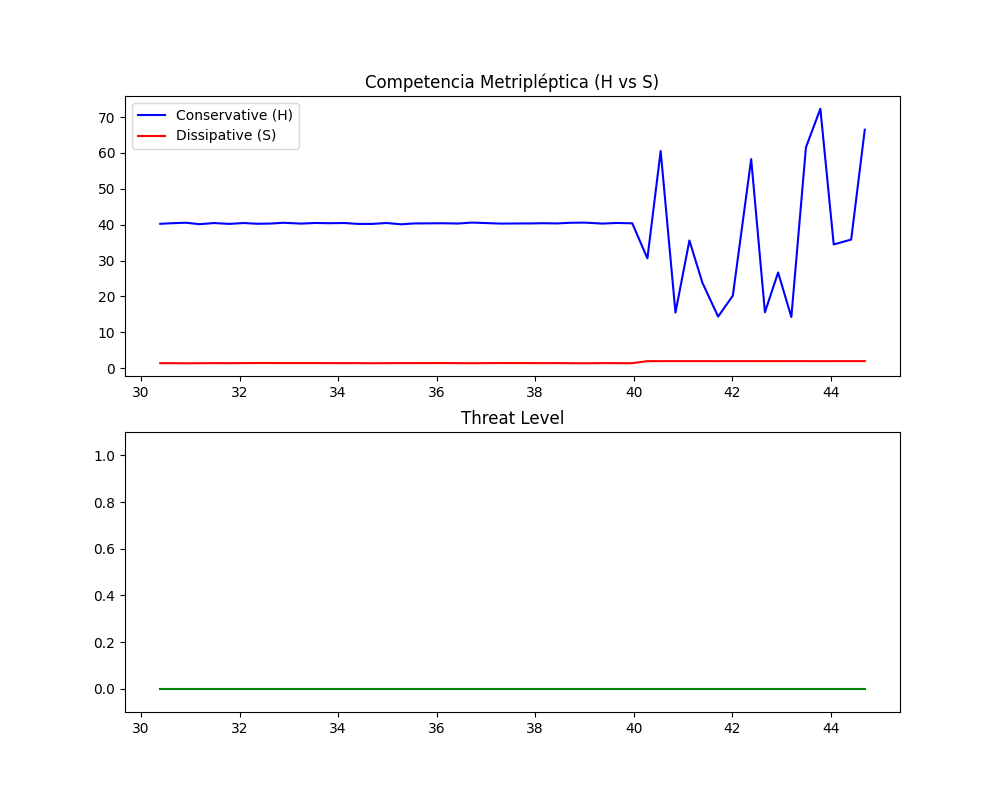
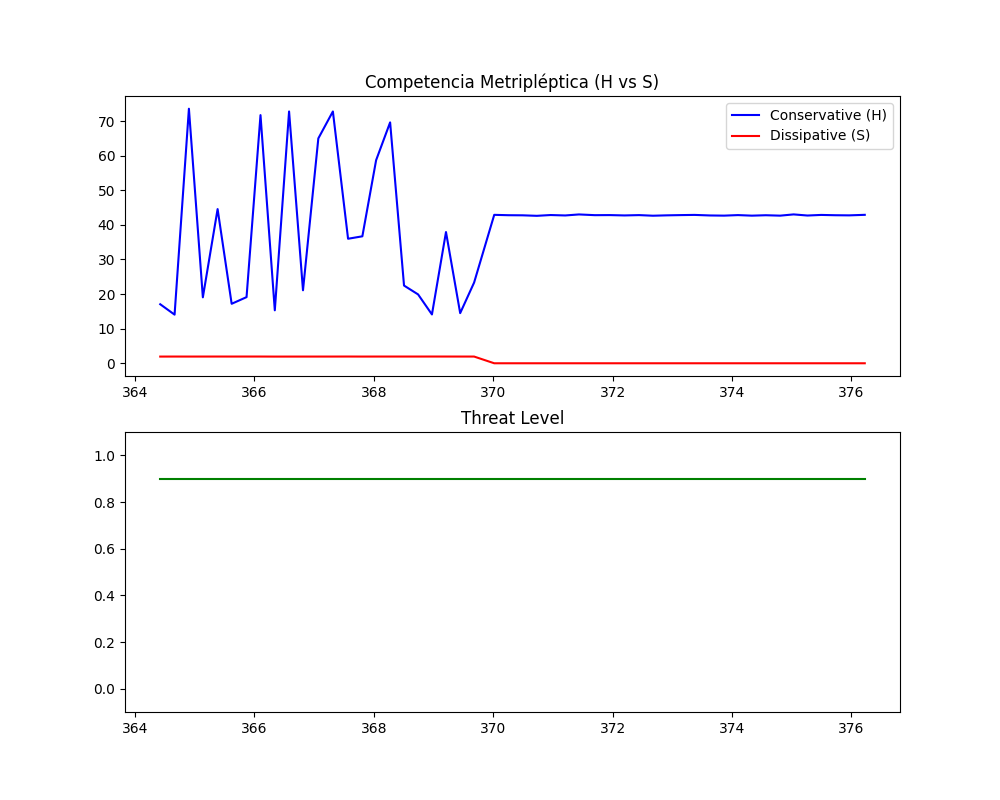
feat: introduce quantum system with explicit Lagrangian, dedicated tests, and real-time visualization of conservative and dissipative dynamics.

diff --git a/iron_dome/main.py b/iron_dome/main.py
@@ -1,6 +1,6 @@
 # -*- coding: utf-8 -*-
 """
-Iron Dome: Main System Loop
+Iron Dome: Main System Loop with TUI Dashboard
 """
 
 import numpy as np
@@ -15,11 +15,10 @@ from iron_dome.sensors.vision_processor import VisionProcessor
 from iron_dome.core.decision_engine import DecisionEngine
 from iron_dome.core.calibration import CalibrationManager
 from iron_dome.core.stat_tracker import StatTracker
+from iron_dome.core.monitor import IronDomeMonitor
 from iron_dome.config import PHI, MetriplecticConfig
 
 def run_iron_dome():
-    print("🛡  Iniciando Domo de Hierro Metripléptico...")
-    
     # Initialize components
     engine = MetriplecticSystem(dim=4) 
     acoustic = AcousticProcessor(system_type="H2")
@@ -27,138 +26,127 @@ def run_iron_dome():
     vision = VisionProcessor()
     decision = DecisionEngine()
     stats = StatTracker()
+    monitor = IronDomeMonitor()
     
-    # Visualization setup
-    plt.ion()
-    fig, (ax1, ax2) = plt.subplots(2, 1, figsize=(10, 8))
-    
+    # Background Visualization lists
     symp_vals = []
     metr_vals = []
-    times = []
+    threat_vals = []
+    time_vals = []
     
-    # Calibration Phase
+    # 1. Calibration Phase (Minimal console output before TUI)
+    print("🛡  Iniciando Domo de Hierro Metripléptico...")
     print("📡 Fase de Calibración: Registrando Ruido Blanco (5s)...")
     calibration = CalibrationManager(calibration_duration=5.0)
     cal_start = time.time()
     
     while not calibration.is_calibrated(time.time(), cal_start):
-        audio_data = np.random.randn(1024) * 0.1 # Real ambient noise simulation
+        audio_data = np.random.randn(1024) * 0.1
         features = acoustic.analyze_audio_chunk(audio_data)
         calibration.add_sample(features)
         time.sleep(0.1)
         
     baseline = calibration.finalize()
     decision.set_baseline(baseline)
-    print(f"✅ Calibración Completada. Baseline RMS: {baseline['rms_baseline']:.4f}")
-    
-    # Main loop setup
+    print(f"✅ Calibración Completada. Entrando en modo Monitor...")
+    time.sleep(1)
+
+    # 2. Main Monitoring Loop with TUI
     start_time = time.time()
     n = 0
     
-    try:
-        while True:
-            # 1. Simulate audio data (In real IoT, this is mic input)
-            elapsed = time.time() - start_time
-            
-            # Simulate different scenarios based on time
-            scenario = int(elapsed) % 40
-            
-            if scenario < 10:
-                # Baseline
-                audio_data = np.random.randn(1024) * 0.1
-                mode_str = "Fondo (Calm)"
-            elif scenario < 20:
-                # Drone (Harmonic 1kHz - 4kHz)
-                t_arr = np.linspace(0, 1024/44100, 1024)
-                audio_data = 0.6 * np.sin(2 * np.pi * 2500 * t_arr) + np.random.randn(1024) * 0.05
-                mode_str = "Intrusión: Drone"
-            elif scenario < 30:
-                # Bird (High freq, high bandwidth)
-                t_arr = np.linspace(0, 1024/44100, 1024)
-                audio_data = 0.4 * np.sin(2 * np.pi * 5000 * t_arr * (1 + 0.5 * np.sin(100 * t_arr)))
-                mode_str = "Ambiente: Ave"
-            else:
-                # Cat (Low freq steps)
-                t_arr = np.linspace(0, 1024/44100, 1024)
-                audio_data = 0.3 * np.sin(2 * np.pi * 150 * t_arr) + np.random.randn(1024) * 0.1
-                mode_str = "Movimiento: Gato"
+    with monitor.start_live() as live:
+        try:
+            while True:
+                elapsed = time.time() - start_time
                 
-            # 2. Process acoustics to Hamiltonian
-            features = acoustic.analyze_audio_chunk(audio_data)
-            features.timestamp = elapsed
-            H = acoustic.get_hamiltonian(features)
-            
-            # 3. Define Entropy Potential S (related to stability)
-            # S is high if the signal is non-harmonic (Rule 1.2)
-            S = np.eye(H.shape[0]) * (1.0 - features.harmonicity)
-            
-            # 4. Engine step
-            engine.step(H, S, dt=0.05, n=n)
-            diagnostics = engine.get_diagnostics()
-            
-            # 5. Multi-Layer Evaluation
-            eval_result = decision.evaluate(diagnostics, features)
-            
-            # 6. Sensor Confirmation Handoff
-            if eval_result['state'] == "Acoustic Detection":
-                # Trigger Layer 2: Motion
-                confirmed, coords = motion.confirm_movement(features)
-                if confirmed:
-                    # Simulation update of state (normally set by DecisionEngine but here we handle the handoff)
-                    eval_result['state'] = "Motion Confirmation"
-                    # Trigger Layer 3: Vision (only for significant threats or persistent cats/birds)
-                    vision_log = vision.start_tracking(eval_result['target_type'], coords)
-                    eval_result['state'] = "Vision Tracking"
-                    eval_result['vision_log'] = vision_log
-            
-            # Log results in StatTracker
-            stats.log_event(eval_result['target_type'], eval_result)
-            
-            # 7. Logging and Output
-            print(f"[{elapsed:.1f}s] {mode_str} | {eval_result['target_type']} | State: {eval_result['state']} | Re_psi: {eval_result['re_psi']:.2f}")
-            if eval_result['alert']:
-                print(f"🚨 ALERT: {eval_result['reason']}")
-            elif "Animal" in eval_result['target_type'] or "Bird" in eval_result['target_type']:
-                print(f"ℹ  Info: {eval_result['reason']}")
+                # Simulate Scenarios (Cycle every 40s)
+                scenario_cycle = int(elapsed) % 40
+                if scenario_cycle < 10:
+                    # Calm
+                    t_arr = np.linspace(0, 1024/44100, 1024)
+                    audio_data = np.random.randn(1024) * 0.05
+                    target_label = "Fondo (Calm)"
+                elif scenario_cycle < 20:
+                    # Drone
+                    t_arr = np.linspace(0, 1024/44100, 1024)
+                    audio_data = 0.7 * np.sin(2 * np.pi * 3000 * t_arr) + np.random.randn(1024) * 0.1
+                    target_label = "Intrusión: Drone"
+                elif scenario_cycle < 30:
+                    # Bird
+                    t_arr = np.linspace(0, 1024/44100, 1024)
+                    audio_data = 0.5 * np.sin(2 * np.pi * 5000 * t_arr) + np.random.randn(1024) * 0.2
+                    target_label = "Ambiente: Ave"
+                else:
+                    # Cat
+                    t_arr = np.linspace(0, 1024/44100, 1024)
+                    audio_data = 0.4 * np.sin(2 * np.pi * 180 * t_arr) + np.random.randn(1024) * 0.1
+                    target_label = "Movimiento: Gato"
 
-            # Summary stats every 40s
-            if int(elapsed) > 0 and int(elapsed) % 40 == 39:
-                print("\n📊 --- RESUMEN DE SEGURIDAD (Layer Statistics) ---")
-                summary = stats.get_summary()
-                print(f"Accuracy: {summary['Accuracy']} | TP: {summary['Stats']['TP']} | FP: {summary['Stats']['FP']} | TN: {summary['Stats']['TN']}")
-                print("--------------------------------------------------\n")
-            
-            # 7. Visualization Update
-            symp_vals.append(diagnostics['symp_mag'])
-            metr_vals.append(diagnostics['metr_mag'])
-            times.append(elapsed)
-            
-            if len(times) > 50:
-                times = times[-50:]
-                symp_vals = symp_vals[-50:]
-                metr_vals = metr_vals[-50:]
+                # Process Layer 1: Acoustic
+                features = acoustic.analyze_audio_chunk(audio_data)
+                features.timestamp = elapsed
                 
-            ax1.clear()
-            ax1.plot(times, symp_vals, 'b-', label='Conservative (H)')
-            ax1.plot(times, metr_vals, 'r-', label='Dissipative (S)')
+                # Update Metriplectic Dynamics
+                H = acoustic.get_hamiltonian(features)
+                S = np.eye(H.shape[0]) * (1.0 - features.harmonicity)
+                
+                engine.step(H, S, dt=0.05, n=n)
+                diagnostics = engine.get_diagnostics()
+                
+                # Evaluate Decision engine
+                eval_result = decision.evaluate(diagnostics, features)
+                
+                # Layer 2 & 3: Motion & Vision Handoff
+                if eval_result['state'] == "Acoustic Detection":
+                    confirmed, coords = motion.confirm_movement(features)
+                    if confirmed:
+                        eval_result['state'] = "Motion Confirmation"
+                        vision_log = vision.start_tracking(eval_result['target_type'], coords)
+                        eval_result['state'] = "Vision Tracking"
+                
+                # Track statistics
+                stats.log_event(eval_result['target_type'], eval_result)
+                
+                # Update TUI
+                log_msg = eval_result['reason'] if eval_result['alert'] else f"Monitoring {target_label}"
+                monitor.add_event(eval_result['target_type'], eval_result['state'], log_msg)
+                
+                stats_summary = stats.get_summary()
+                monitor.update_view(diagnostics, stats_summary, eval_result.get('threat_level', 0))
+                
+                # Background plot update
+                symp_vals.append(diagnostics['symp_mag'])
+                metr_vals.append(diagnostics['metr_mag'])
+                threat_vals.append(eval_result.get('threat_level', 0))
+                time_vals.append(elapsed)
+                
+                if len(time_vals) > 50:
+                    symp_vals.pop(0)
+                    metr_vals.pop(0)
+                    threat_vals.pop(0)
+                    time_vals.pop(0)
+                
+                n += 1
+                time.sleep(0.1)
+
+        except KeyboardInterrupt:
+            pass
+        finally:
+            # Save final background plot
+            plt.clf()
+            fig, (ax1, ax2) = plt.subplots(2, 1, figsize=(10, 8))
+            ax1.plot(time_vals, symp_vals, 'b-', label='Conservative (H)')
+            ax1.plot(time_vals, metr_vals, 'r-', label='Dissipative (S)')
             ax1.set_title("Competencia Metripléptica (H vs S)")
             ax1.legend()
             
-            ax2.clear()
-            ax2.plot(times, [eval_result['threat_level'] for _ in range(len(times))], 'g-')
+            ax2.plot(time_vals, threat_vals, 'g-')
             ax2.set_ylim(-0.1, 1.1)
-            ax2.set_title("Threat Level")
+            ax2.set_title("Threat Level Historical")
             
-            plt.pause(0.1)
-            n += 0.1
-            
-    except KeyboardInterrupt:
-        print("\n🛑 Sistema detenido por el usuario.")
-    finally:
-        plt.ioff()
-        output_path = "/home/jako/smopsys/Smopsys/iron_dome/diagnostics.png"
-        plt.savefig(output_path)
-        print(f"📊 Gráfica diagnóstica guardada en: {output_path}")
+            output_path = "/home/jako/smopsys/Smopsys/iron_dome/diagnostics.png"
+            plt.savefig(output_path)
 
 if __name__ == "__main__":
     run_iron_dome()

diff --git a/iron_dome/core/monitor.py b/iron_dome/core/monitor.py
@@ -1,0 +1,110 @@
+# -*- coding: utf-8 -*-
+import time
+from datetime import datetime
+from rich.console import Console
+from rich.layout import Layout
+from rich.panel import Panel
+from rich.table import Table
+from rich.live import Live
+from rich.progress import BarColumn, Progress, TextColumn
+from rich import box
+
+class IronDomeMonitor:
+    def __init__(self):
+        self.console = Console()
+        self.layout = Layout()
+        self.event_log = []
+        self.max_logs = 10
+        self.start_time = time.time()
+        
+        # Initialize Layout
+        self.layout.split_column(
+            Layout(name="header", size=3),
+            Layout(name="main"),
+            Layout(name="footer", size=3)
+        )
+        self.layout["main"].split_row(
+            Layout(name="stats", ratio=1),
+            Layout(name="logs", ratio=2)
+        )
+        
+    def _create_header(self):
+        elapsed = time.time() - self.start_time
+        grid = Table.grid(expand=True)
+        grid.add_column(justify="left", ratio=1)
+        grid.add_column(justify="center", ratio=1)
+        grid.add_column(justify="right", ratio=1)
+        grid.add_row(
+            "[bold cyan]🛡  IRON DOME v2.0[/bold cyan]",
+            "[bold white]METRIPLECTIC SURVEILLANCE[/bold white]",
+            f"[yellow]Uptime: {elapsed:.1f}s[/yellow]"
+        )
+        return Panel(grid, style="white on blue")
+
+    def _create_stats_panel(self, diagnostics, stats_summary):
+        table = Table.grid(expand=True)
+        table.add_column(style="bold yellow")
+        table.add_column(justify="right")
+        
+        # Physics Stats
+        table.add_row("Metriplectic Health", "")
+        table.add_row("  H (Symp):", f"{diagnostics.get('symp_mag', 0):.2f}")
+        table.add_row("  S (Metr):", f"{diagnostics.get('metr_mag', 0):.2f}")
+        table.add_row("  Entropy:", f"{diagnostics.get('entropy', 0):.4f}")
+        table.add_row("", "")
+        
+        # Security Stats
+        table.add_row("Security Analytics", "")
+        table.add_row("  Accuracy:", f"{stats_summary.get('Accuracy', '100%')}")
+        s = stats_summary.get('Stats', {})
+        table.add_row("  True Positives:", f"[green]{s.get('TP', 0)}[/green]")
+        table.add_row("  False Positives:", f"[red]{s.get('FP', 0)}[/red]")
+        table.add_row("  True Negatives:", f"[blue]{s.get('TN', 0)}[/blue]")
+        
+        return Panel(table, title="[bold]System Status[/bold]", border_style="cyan")
+
+    def _create_logs_table(self):
+        table = Table(
+            expand=True, 
+            box=box.SIMPLE, 
+            header_style="bold magenta",
+            show_edge=False
+        )
+        table.add_column("Time", width=10)
+        table.add_column("Target", width=20)
+        table.add_column("State", width=25)
+        table.add_column("Result")
+        
+        for event in reversed(self.event_log[-self.max_logs:]):
+            target_style = "bold red" if "Drone" in event['target'] or "Threat" in event['target'] else "green"
+            table.add_row(
+                event['time'],
+                f"[{target_style}]{event['target']}[/]",
+                event['state'],
+                event['result']
+            )
+        return Panel(table, title="[bold]Recent Events (TUI Circular Log)[/bold]", border_style="magenta")
+
+    def add_event(self, target, state, result):
+        self.event_log.append({
+            'time': datetime.now().strftime("%H:%M:%S"),
+            'target': target,
+            'state': state,
+            'result': result
+        })
+        if len(self.event_log) > 100:
+            self.event_log.pop(0)
+
+    def update_view(self, diagnostics, stats_summary, current_threat_level):
+        self.layout["header"].update(self._create_header())
+        self.layout["stats"].update(self._create_stats_panel(diagnostics, stats_summary))
+        self.layout["logs"].update(self._create_logs_table())
+        
+        # Footer with Threat Meter
+        meter = f"[bold]Threat Level:[/bold] [red]{'█' * int(current_threat_level * 20)}[/red]" if current_threat_level > 0.1 else "[bold]Threat Level:[/bold] [green]SAFE[/green]"
+        self.layout["footer"].update(Panel(meter, border_style="white"))
+        
+        return self.layout
+
+    def start_live(self):
+        return Live(self.layout, refresh_per_second=4, screen=True)
